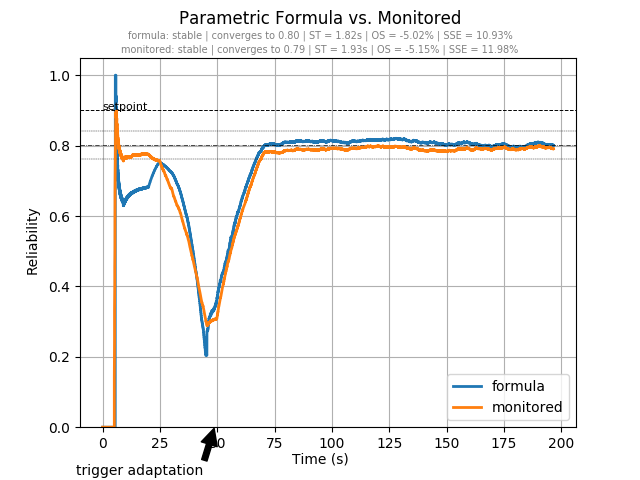
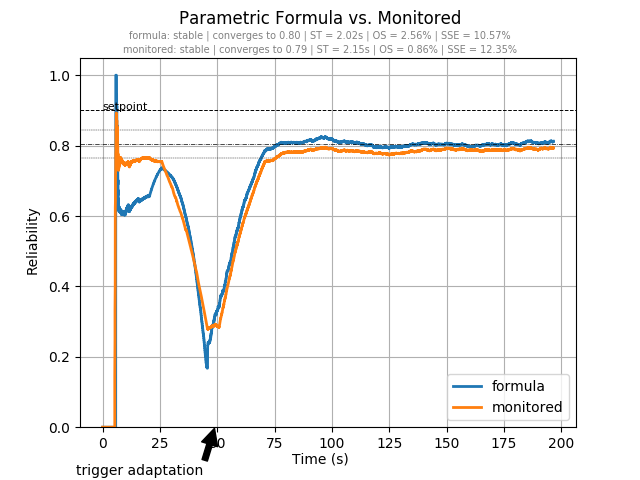
minor modifications to the last experimental results

diff --git a/src/simulation/analyzer/src/Analyzer.py b/src/simulation/analyzer/src/Analyzer.py
@@ -86,8 +86,8 @@ class Analyzer:
         print('Settling Time: %.2fs' % self.settling_time)
 
         #calculate overshoot
-        y_max = max(yi for yi in y[:stability_point])
-        self.overshoot = 100*(y_max - self.mean)/self.mean
+        #y_max = max(yi for yi in y[:stability_point])
+        self.overshoot = 100*(max(y) - self.mean)/self.mean
         print('Overshoot: %.2f%%' % self.overshoot)
 
         #calculate steady-state error
@@ -283,7 +283,7 @@ class Analyzer:
         scale = 10e-10
         ticks = ticker.FuncFormatter(lambda x, pos: '{0:g}'.format(x*scale))
 
-        default_colors = ["#ff7f0e", "#2ca02c", "#d62728", "#9467bd", "#8c564b", "#e377c2", "#7f7f7f", "#bcbd22", "#17becf"]
+        default_colors = ["#17becf", "#2ca02c", "#d62728", "#9467bd", "#8c564b", "#e377c2", "#7f7f7f", "#bcbd22", "#ff7f0e"]
         colors = dict()
         i = 0
         for tag in tasks:
@@ -305,11 +305,11 @@ class Analyzer:
             x_max  = local_status_timeseries[tag][last][0] if local_status_timeseries[tag][last][0] > x_max else x_max
 
         ## Then, plot the local reliabilities against time (same figure)
-        #i = 0
-        #for tag in local_reli_timeseries:
-        #    x = [el[0] for el in local_reli_timeseries[tag]]
-        #    y = [el[1] for el in local_reli_timeseries[tag]]
-        #    ax.plot(x, y, label=tag, color=colors[tag])
+        i = 0
+        for tag in local_reli_timeseries:
+            x = [el[0] for el in local_reli_timeseries[tag]]
+            y = [el[1] for el in local_reli_timeseries[tag]]
+            ax.plot(x, y, label=tag, color=colors[tag])
 
         ## Plot horizontal lines for setpoint
         ax.axhline(y=setpoint, linestyle='--', linewidth=0.7, color="black")
